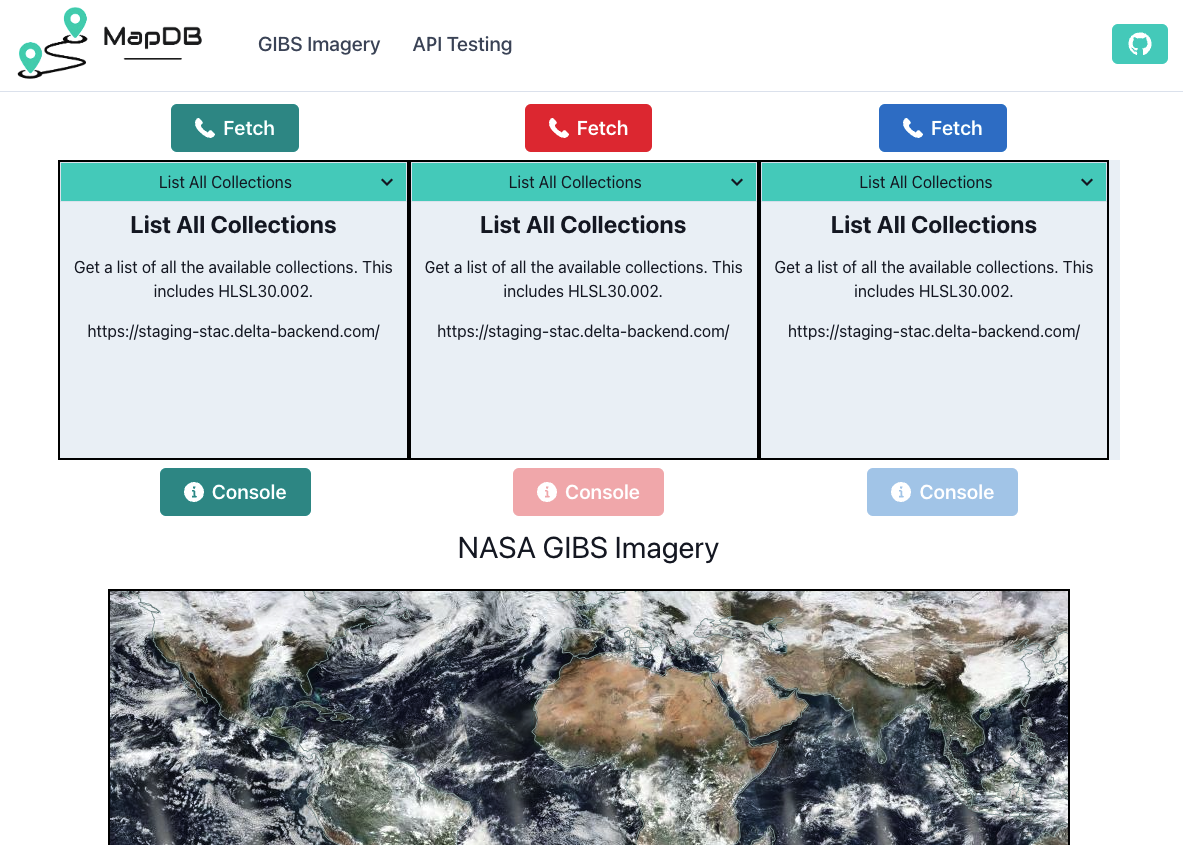
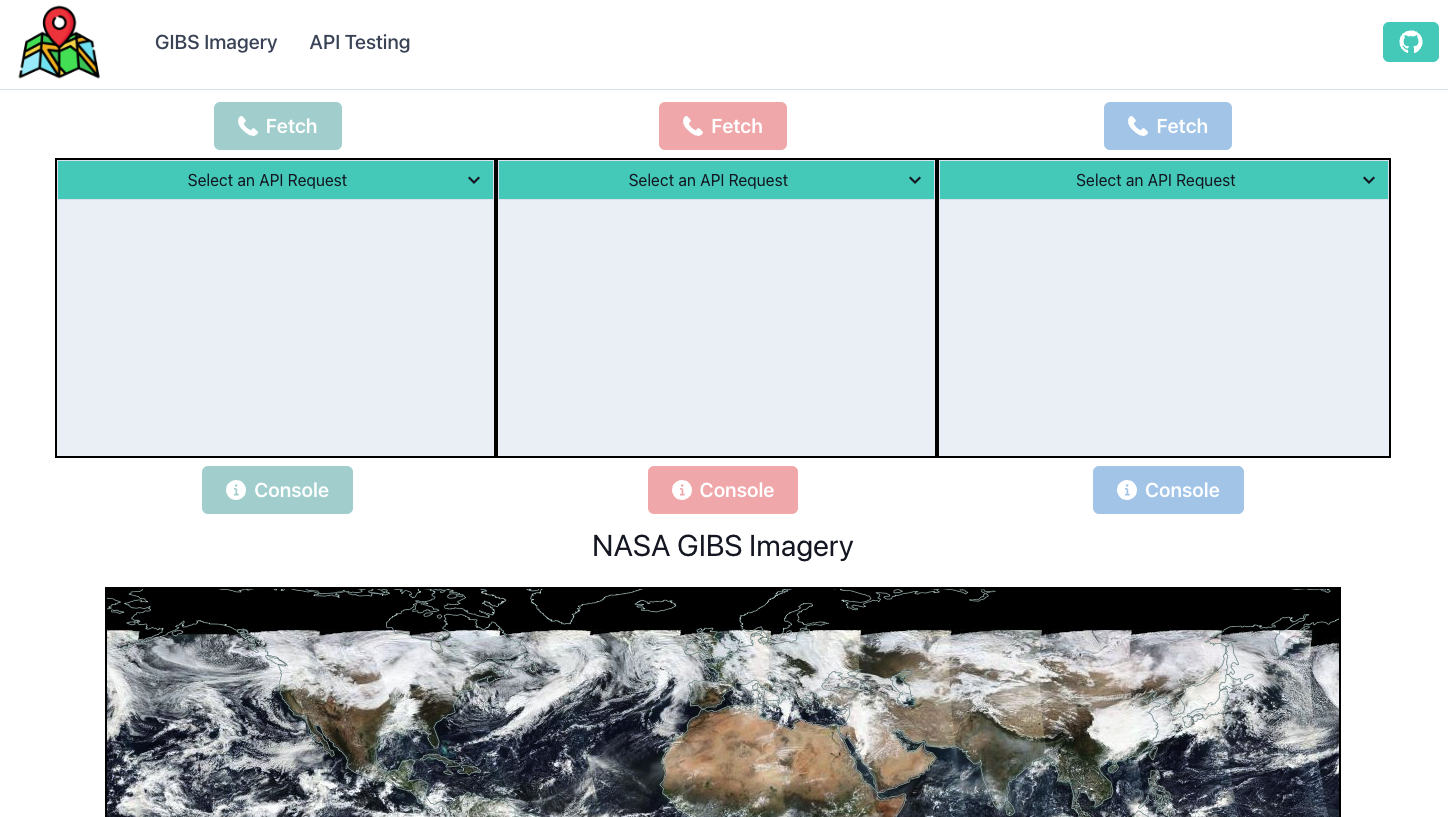
fix ui bugs

diff --git a/src/worldview/api/ApiTest.tsx b/src/worldview/api/ApiTest.tsx
@@ -24,7 +24,7 @@ const ApiTest = () => {
     async function getResponseOne() {
         setLoadingOne(true)
         try {
-          const response = await axios.get('https://staging-raster.delta-backend.com/mosaic/7743bcb31bff7151aff7e5508785fce1/info');
+          const response = await axios.get(callUrlOne);
           const data = response.data;
           setResponseOne(data);
         } catch (error) {
@@ -37,7 +37,7 @@ const ApiTest = () => {
       async function getResponseTwo() {
         setLoadingTwo(true)
         try {
-          const response = await axios.get('https://staging-raster.delta-backend.com/mosaic/7743bcb31bff7151aff7e5508785fce1/info');
+          const response = await axios.get(callUrlTwo);
           const data = response.data;
           setResponseTwo(data);
         } catch (error) {
@@ -50,7 +50,7 @@ const ApiTest = () => {
       async function getResponseThree() {
         setLoadingThree(true)
         try {
-          const response = await axios.get('https://staging-raster.delta-backend.com/mosaic/7743bcb31bff7151aff7e5508785fce1/info');
+          const response = await axios.get(callUrlThree);
           const data = response.data;
           setResponseThree(data);
         } catch (error) {
@@ -149,7 +149,7 @@ const ApiTest = () => {
                 <Text align="center" my="2">{callDescriptionTwo}</Text>
                 <Text align="center" my="2">{callUrlTwo}</Text>
             </Flex>
-            <Flex align="center" direction="column" h="100%" w="33%" border="2px solid black">
+            <Flex align="center" direction="column" h="100%" w="34%" border="2px solid black">
                 <Select defaultValue="disabled" id="select3" bg="teal.300" borderRadius="0" textAlign="center" onChange={(e) => handleSelect(e)}>
                     <option value="disabled" disabled>Select an API Request</option>
                     {apiCalls.map((call) => {

diff --git a/src/layout/Footer.tsx b/src/layout/Footer.tsx
@@ -85,7 +85,7 @@ export default function Footer() {
         htmlWidth={"200px"}
         htmlHeight={"200px"}
         />
-        <Text>© 2022 MapDB. All rights reserved</Text>
+        <Text>© 2022. All rights reserved</Text>
         <Stack direction={'row'} spacing={6}>
           <SocialButton label={'Twitter'} href={'#'}>
             <FaTwitter />

diff --git a/public/index.html b/public/index.html
@@ -24,7 +24,7 @@
       work correctly both with client-side routing and a non-root public URL.
       Learn how to configure a non-root public URL by running `npm run build`.
     -->
-    <title>MapDB</title>
+    <title>WV-Tester</title>
   </head>
   <body>
     <noscript>You need to enable JavaScript to run this app.</noscript>

diff --git a/src/layout/Navbar.tsx b/src/layout/Navbar.tsx
@@ -59,7 +59,7 @@ const Navbar = () => {
         <Flex flex={{ base: 1 }} justify={{ base: 'center', md: 'start' }}>
           <Image 
             src={logo}
-            htmlWidth={"200px"}
+            htmlWidth={"80px"}
           />
           <Flex display={{ base: 'none', md: 'flex' }} ml={10}>
             <DesktopNav />

diff --git a/src/components/signup/SignUp.tsx b/src/components/signup/SignUp.tsx
@@ -79,7 +79,7 @@ export default function SignUp() {
             />
           </Link>
           <Text fontSize={'lg'} color={'gray.600'}>
-            Sign up for an account on MapDB
+            Sign up for an account
           </Text>
         </Stack>
         <Box

diff --git a/src/worldview/mapLayout/ApiTestingLayout.tsx b/src/worldview/mapLayout/ApiTestingLayout.tsx
@@ -28,7 +28,7 @@ const ApiTestingLayout = () => {
       <Flex justify="center">
         <Text fontSize="3xl">NASA GIBS Imagery</Text>
       </Flex>
-      <Map />
+        <Map />
       <Flex >
         <AvailableLayerDisplay/>
         <DateSelector />
